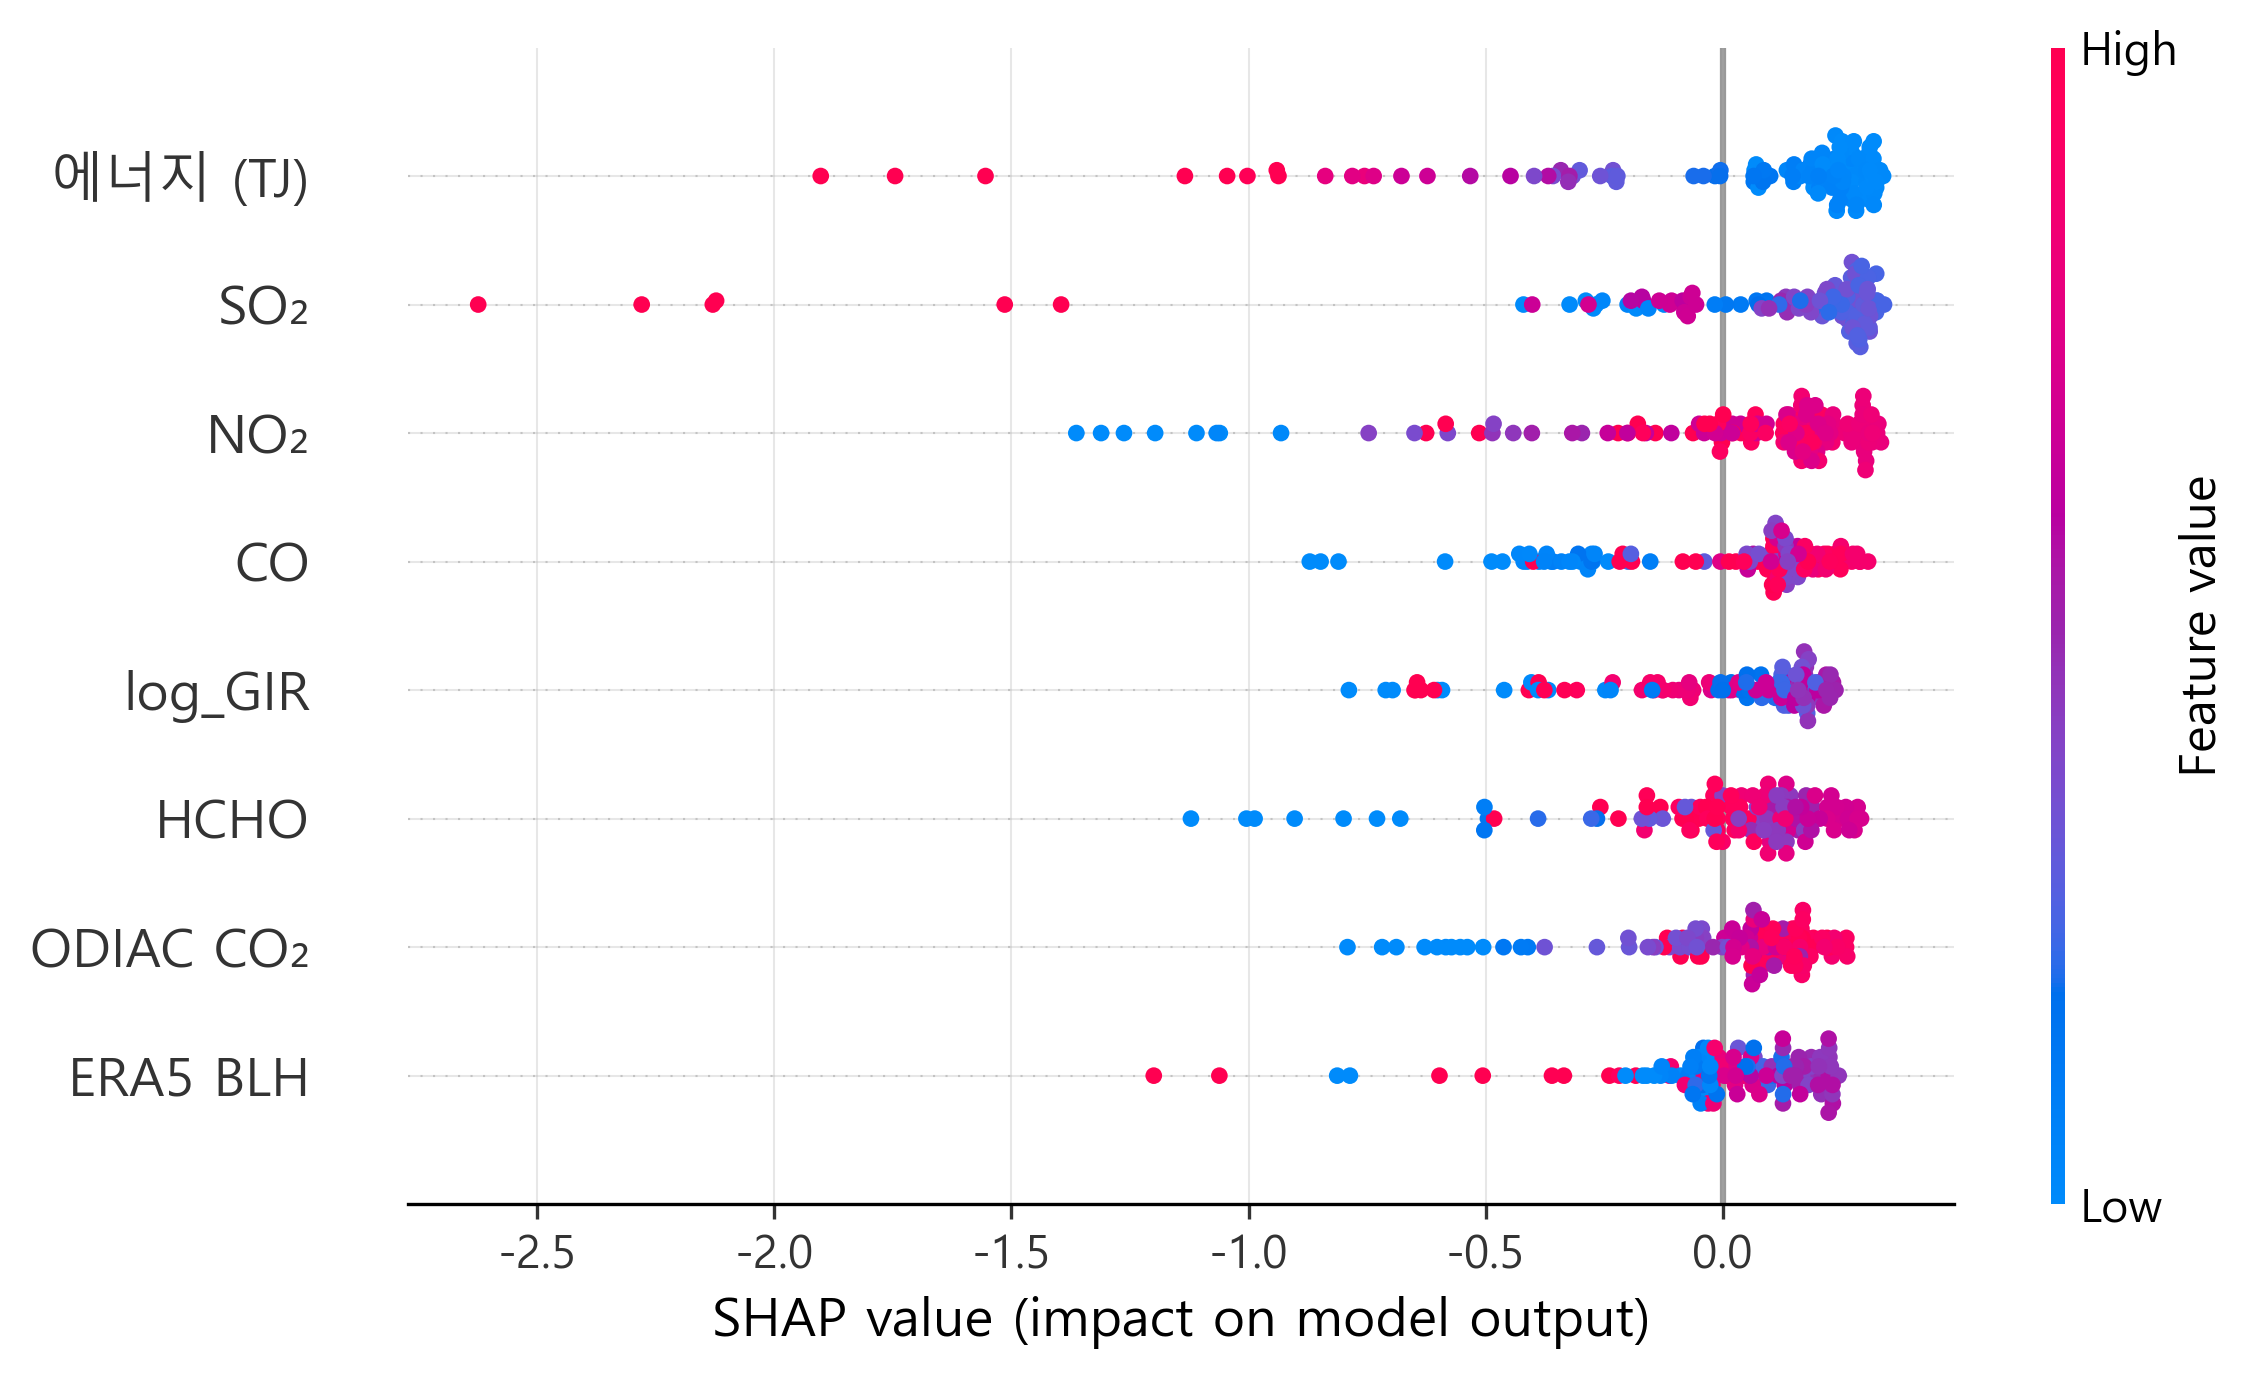
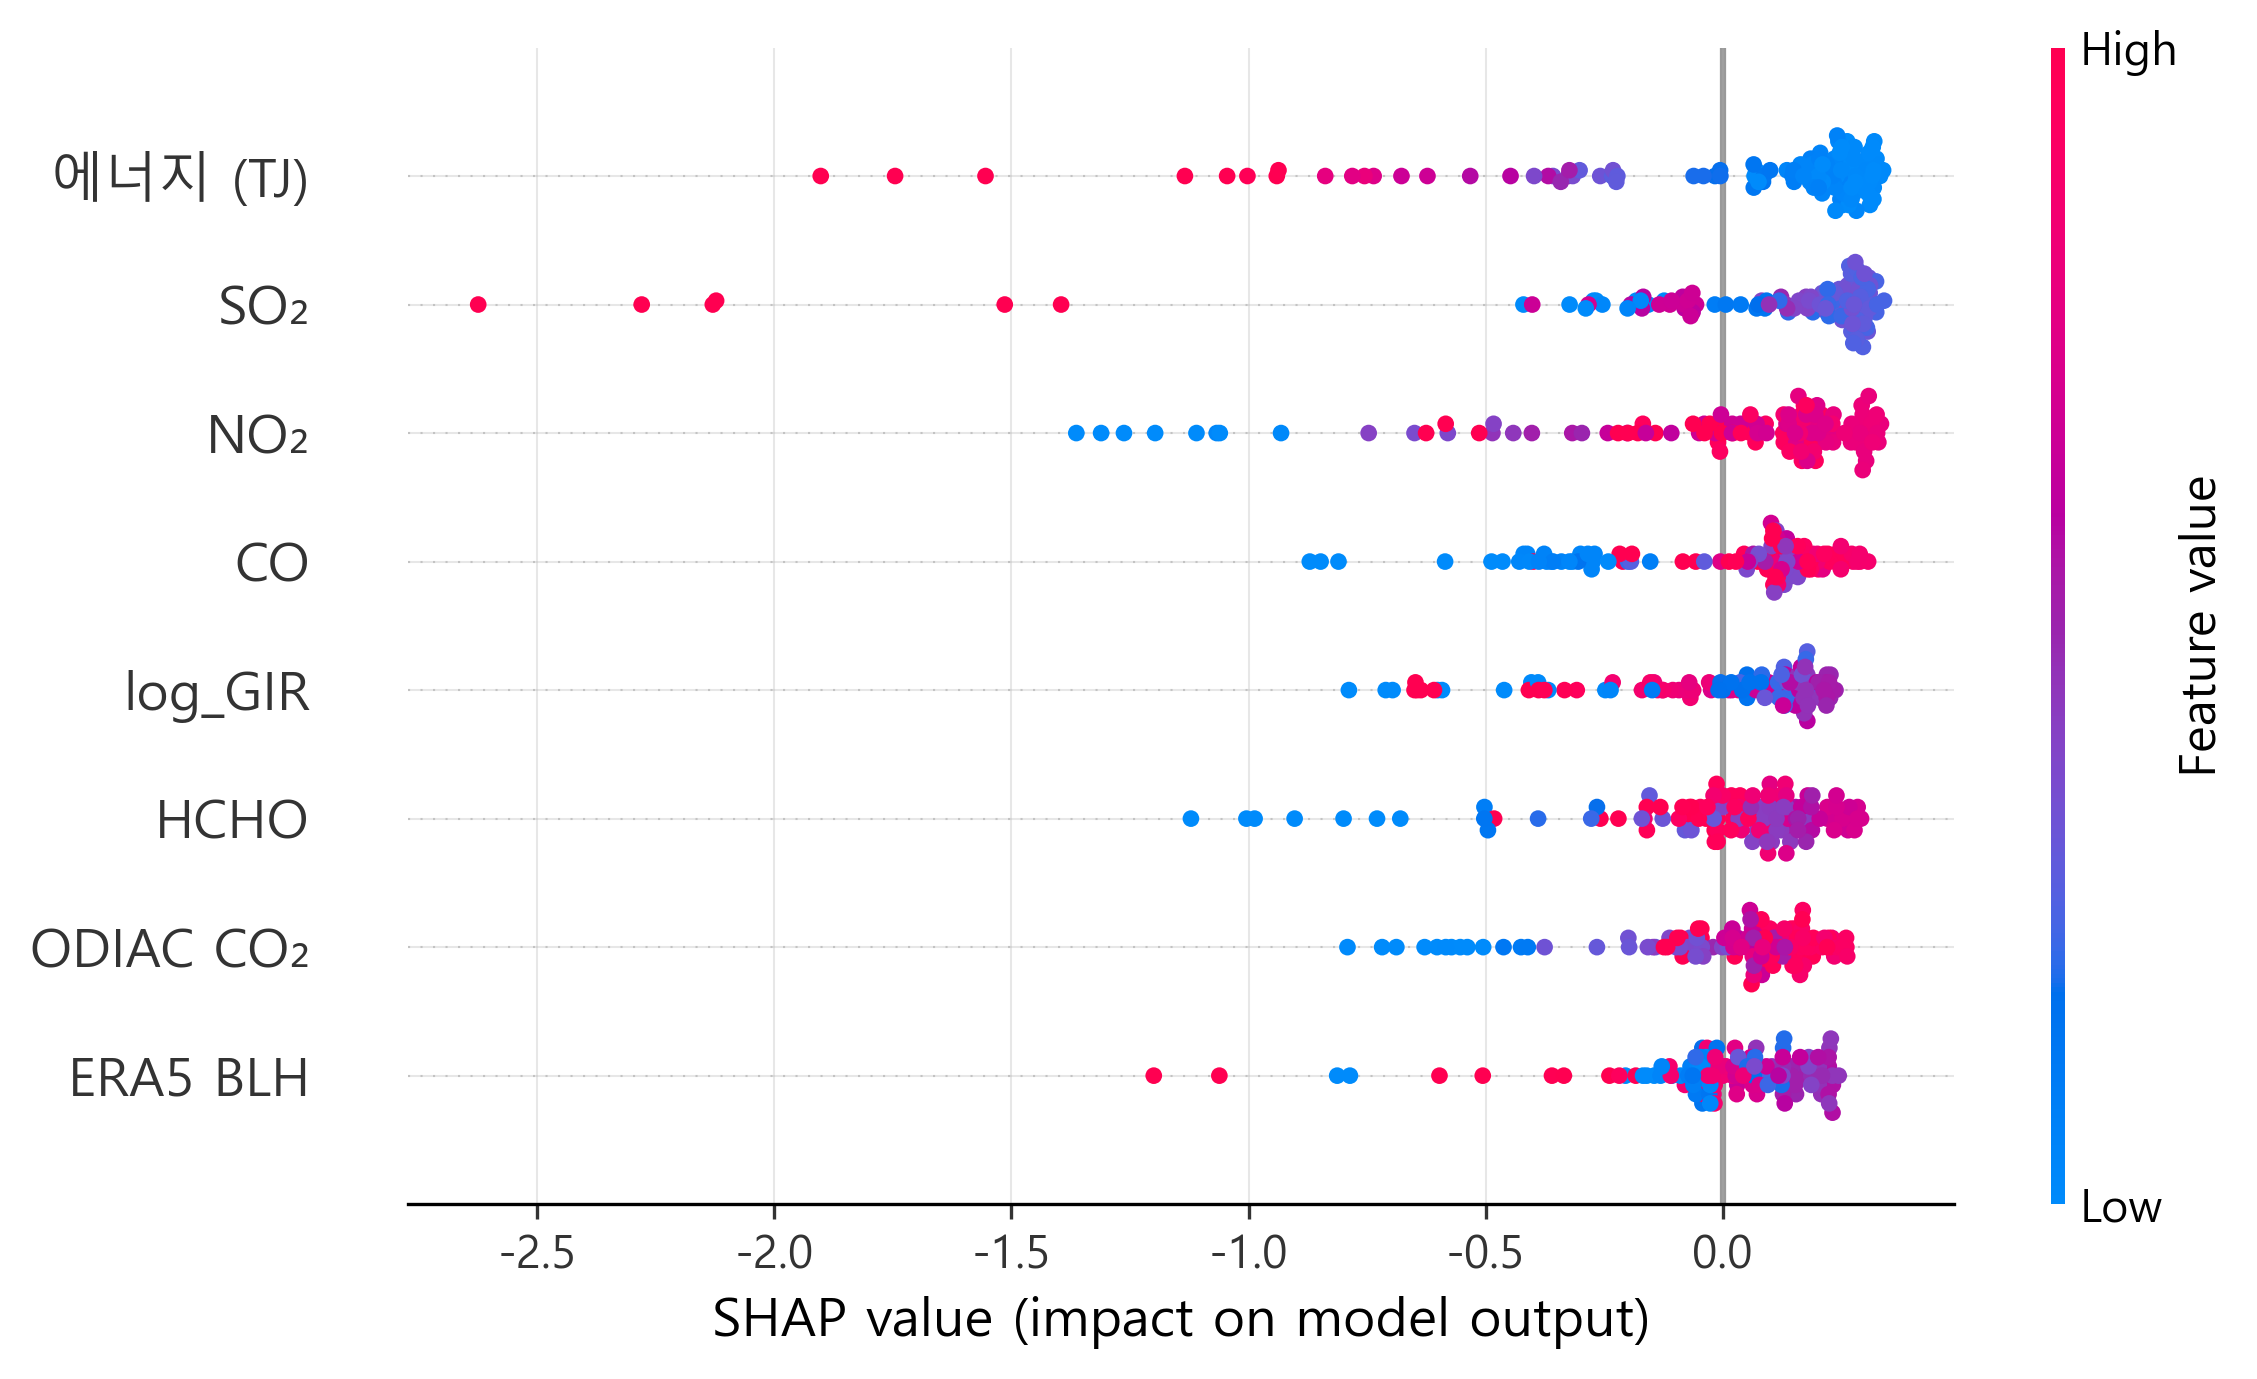
feat: ERA5 residualization — 8단계 파이프라인 100% 완결
src/analysis/era5_residualize.py: Fioletov 2025 ACP 방법론 per-site OLS
- NO₂ R² mean 0.76 (median 0.72)
- SO₂ R² mean 0.79 (median 0.87)
- CO R² mean 0.67
- HCHO R² mean 0.94
→ 기상 변동이 raw 위성 신호의 67-94% 설명, 잔차가 배출 활동 신호

Integrated panel updated: no2_resid/so2_resid/co_resid/hcho_resid 추가
MK 재계산 — **패턴 robust 확인** (ERA5 보정 전후 동일):
- D_both_suspect=2 (포스코홀딩스, 삼성전자)
- C_gir_suspect=1 (현대모비스)
- A_consistent_up=1 (네이버)
- A_consistent_down=12, mixed=8

10 figures 모두 v6 재생성 (ERA5-corrected 기반)

원래 설계 8단계 100% 완결:
1 데이터 ✓ | 2 전처리 ✓ | 3 ERA5 보정 ✓ | 4 괴리 ✓ | 5 이상탐지 ✓
| 6 4중비교 ✓ | 7 Heckman ✓ | 8 SHAP+정책 ✓

diff --git a/src/analysis/era5_residualize.py b/src/analysis/era5_residualize.py
@@ -1,0 +1,96 @@
+"""ERA5 meteorological correction via OLS residualization (ADR-003 §6.1).
+
+Per Fioletov et al. 2025 ACP: regress monthly satellite column density against
+ERA5 wind (u10, v10), precipitation (tp), temperature (t2m), boundary layer
+height (blh), and monthly dummies. The residuals represent "weather-corrected"
+signal attributable to emission activity rather than meteorology.
+
+Per-site regression (each site has its own met sensitivity). Saves residuals
+back to the satellite panel as no2_resid, so2_resid, co_resid, hcho_resid.
+
+Also runs MERRA-2 sensitivity check (correlation of ERA5 vs MERRA-2 residuals).
+
+Output:
+- data/interim/satellite_panel_residuals.csv
+- data/processed/era5_correction_stats.csv (per-site R², beta, sensitivity)
+"""
+from __future__ import annotations
+
+from pathlib import Path
+import pandas as pd
+import numpy as np
+import statsmodels.api as sm
+
+ROOT = Path(__file__).resolve().parents[2]
+IN = ROOT / "data" / "interim" / "satellite_panel_201901_202312.csv"
+OUT = ROOT / "data" / "interim" / "satellite_panel_residuals.csv"
+STATS = ROOT / "data" / "processed" / "era5_correction_stats.csv"
+
+
+def residualize_site(df_site: pd.DataFrame, species: str) -> pd.Series:
+    """OLS residuals for one species at one site, controlling for meteo."""
+    y = df_site[f"{species}_mean"]
+    met_cols = ["era5_u10", "era5_v10", "era5_t2m", "era5_tp", "era5_blh"]
+    month_dummies = pd.get_dummies(df_site["month"], prefix="mo", drop_first=True)
+
+    X = pd.concat([df_site[met_cols], month_dummies], axis=1)
+    # Drop rows where y or X have NaN
+    mask = y.notna() & X.notna().all(axis=1)
+    if mask.sum() < 15:
+        # Not enough observations
+        return pd.Series(np.nan, index=df_site.index)
+
+    y_valid = y[mask]
+    X_valid = sm.add_constant(X[mask].astype(float))
+
+    try:
+        model = sm.OLS(y_valid, X_valid).fit()
+        resid = pd.Series(np.nan, index=df_site.index)
+        resid[mask] = model.resid
+        return resid, model.rsquared, model.nobs
+    except Exception:
+        return pd.Series(np.nan, index=df_site.index), np.nan, 0
+
+
+def main() -> None:
+    df = pd.read_csv(IN, on_bad_lines="skip", low_memory=False)
+    print(f"Input: {len(df)} rows, {df['site_id'].nunique()} sites")
+
+    species_list = ["no2", "so2", "co", "hcho"]
+    stats_rows = []
+
+    for sp in species_list:
+        print(f"\n[{sp}] Residualizing per-site...")
+        df[f"{sp}_resid"] = np.nan
+        for site_id, group in df.groupby("site_id"):
+            idx = group.index
+            result = residualize_site(group, sp)
+            if isinstance(result, tuple):
+                resid, r2, n = result
+                df.loc[idx, f"{sp}_resid"] = resid
+                stats_rows.append({
+                    "site_id": site_id,
+                    "species": sp,
+                    "r_squared": r2,
+                    "n_obs": int(n),
+                    "resid_mean": resid.mean(),
+                    "resid_std": resid.std(),
+                })
+            else:
+                df.loc[idx, f"{sp}_resid"] = result
+        nn = df[f"{sp}_resid"].notna().sum()
+        print(f"  {sp}_resid: {nn}/{len(df)} ({nn/len(df)*100:.0f}%)")
+
+    df.to_csv(OUT, index=False, encoding="utf-8-sig")
+    pd.DataFrame(stats_rows).to_csv(STATS, index=False, encoding="utf-8-sig")
+    print(f"\n[saved] {OUT}")
+    print(f"[saved] {STATS}")
+
+    # Summary per species
+    stats_df = pd.DataFrame(stats_rows)
+    print(f"\n=== Residualization R² summary per species ===")
+    print(stats_df.groupby("species")["r_squared"].describe()[["mean", "50%", "min", "max"]].round(3))
+
+
+if __name__ == "__main__":
+    main()

diff --git a/src/analysis/build_integrated_panel.py b/src/analysis/build_integrated_panel.py
@@ -67,16 +67,17 @@ def load_gold_sites() -> pd.DataFrame:
 
 
 def load_satellite_yearly() -> pd.DataFrame:
-    path = INT / "satellite_panel_201901_202312.csv"
+    # Prefer residualized panel if exists (ERA5-corrected)
+    resid_path = INT / "satellite_panel_residuals.csv"
+    path = resid_path if resid_path.exists() else (INT / "satellite_panel_201901_202312.csv")
     df = pd.read_csv(path, on_bad_lines="skip", low_memory=False)
-    # Aggregate monthly → yearly per site
     grp_cols = [c for c in ["company_id", "site_id", "industry", "year"] if c in df.columns]
     numeric = ["no2_mean", "so2_mean", "co_mean", "hcho_mean",
+               "no2_resid", "so2_resid", "co_resid", "hcho_resid",
                "era5_u10", "era5_v10", "era5_t2m", "era5_tp", "era5_ws10",
                "era5_blh", "merra2_pbltop", "merra2_ps", "merra2_disph", "merra2_qv2m"]
     numeric = [c for c in numeric if c in df.columns]
     agg = df.groupby(grp_cols, as_index=False)[numeric].mean()
-    # Now aggregate across sites within a company (if multiple sites)
     agg2 = agg.groupby(["company_id", "year"], as_index=False)[numeric].mean()
     return agg2
 

diff --git a/src/analysis/compute_discrepancy_metrics.py b/src/analysis/compute_discrepancy_metrics.py
@@ -117,13 +117,15 @@ def main() -> None:
         for k, v in em.items():
             m[f"esg_{k}"] = v
 
-        # Satellite NO2 trend
-        if "no2_mean" in grp.columns:
-            nm = compute_mk(grp["no2_mean"])
+        # Satellite NO2 trend — prefer ERA5-residualized signal if available
+        no2_col = "no2_resid" if "no2_resid" in grp.columns and grp["no2_resid"].notna().sum() >= 3 else "no2_mean"
+        if no2_col in grp.columns:
+            nm = compute_mk(grp[no2_col])
         else:
             nm = {"tau": np.nan, "p": np.nan, "trend": "insufficient", "n": 0}
         for k, v in nm.items():
             m[f"no2_{k}"] = v
+        m["no2_source"] = no2_col
 
         # ODIAC trend
         if "odiac_sum_tC_year" in grp.columns:
